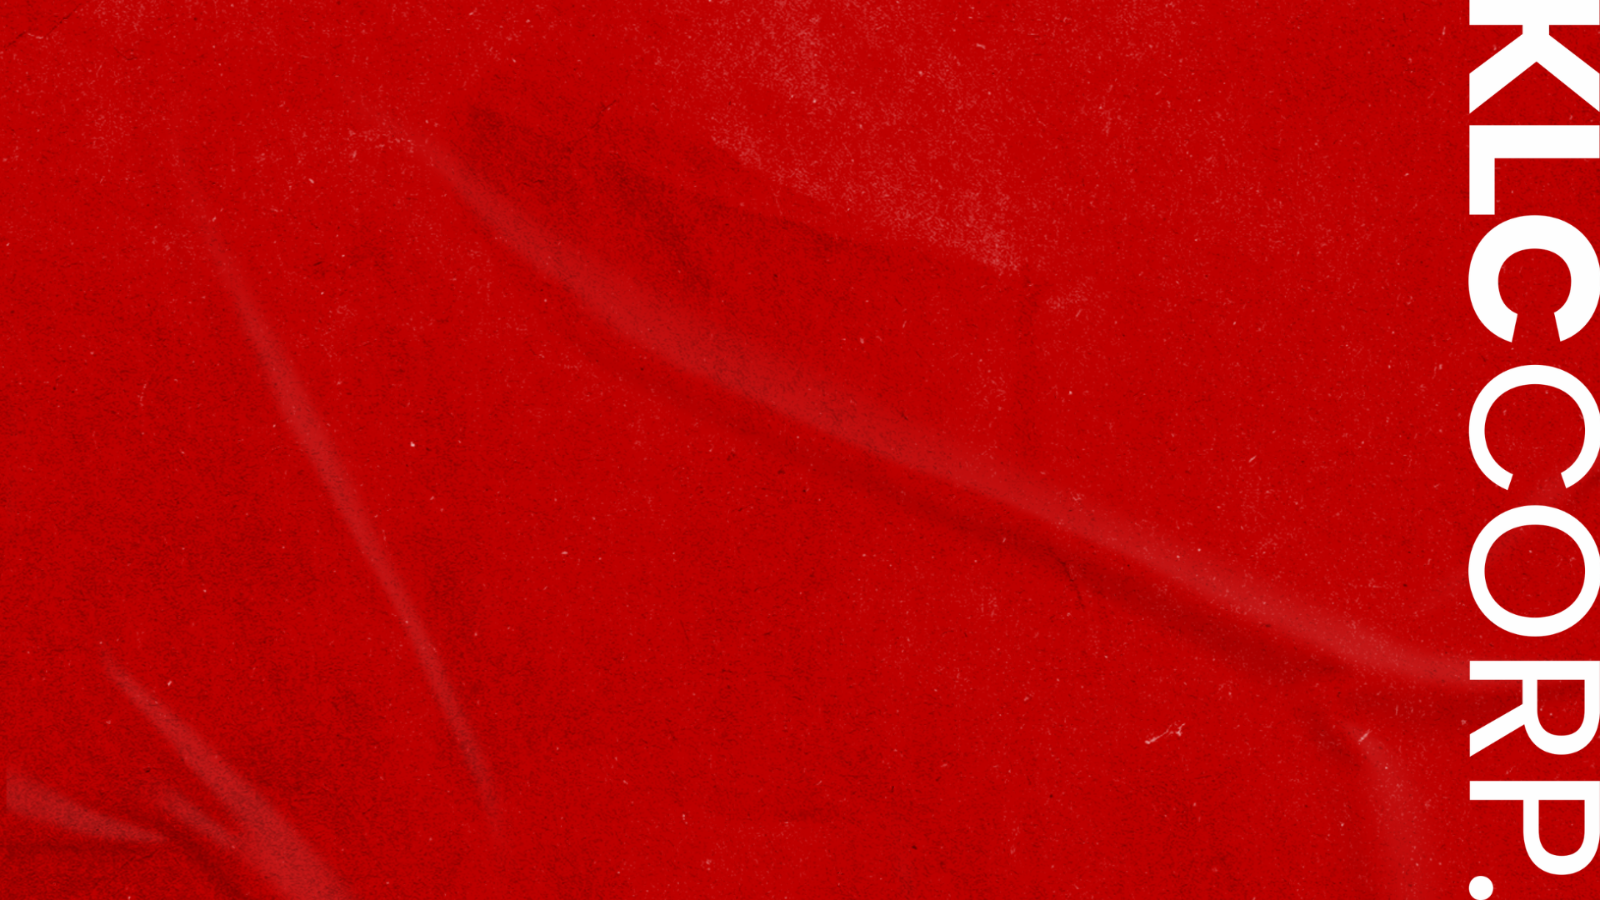
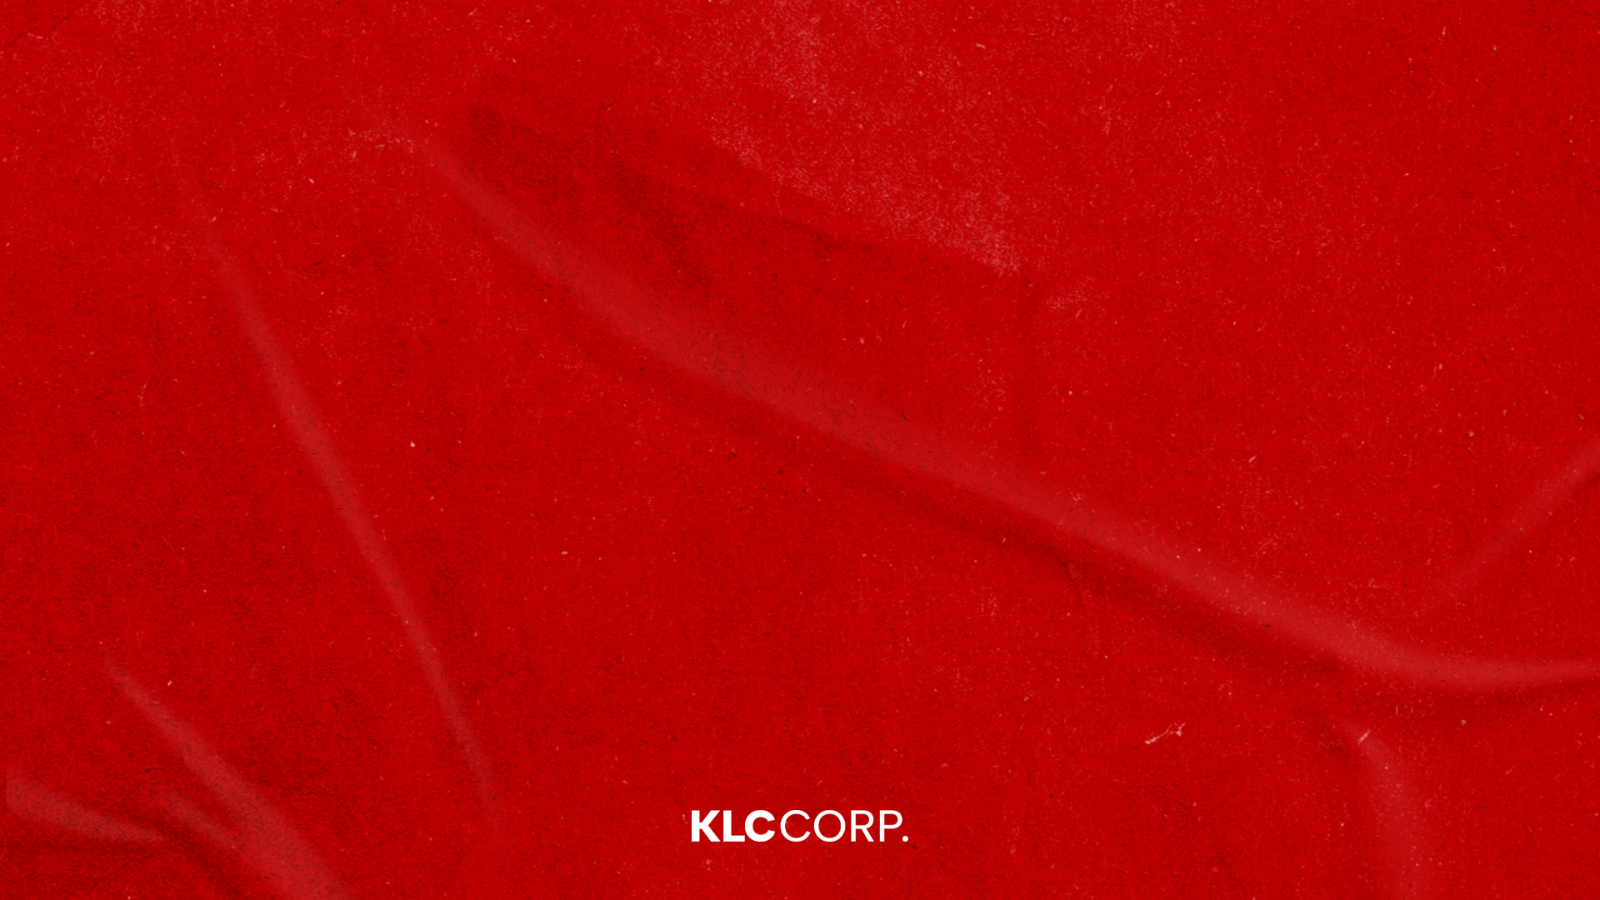
Use the requested texture variant and anchor it to the bottom
I picked the wrong one of the two paper-texture files: the choice was the
variant with KLC CORP. centred along the bottom, not the one running it up the
right edge. Rebuilt from the correct source.

The mark sits at the foot of that image, and bg-center trims top and bottom
equally, so it was cut off by the viewport edge. Anchoring the background to
the bottom keeps it whole; only texture is lost off the top, which costs
nothing.

diff --git a/absensi-app/frontend/js/hr.js b/absensi-app/frontend/js/hr.js
@@ -14,7 +14,7 @@ const HrState = {
 async function renderHrDashboard(account) {
   const app = document.getElementById('app');
   app.innerHTML = `
-    <div data-bg="merek" class="min-h-screen bg-klc-red bg-cover bg-center bg-fixed"
+    <div data-bg="merek" class="min-h-screen bg-klc-red bg-cover bg-bottom bg-fixed"
          style="background-image:url('img/bg-dashboard.png')">
       <header class="bg-white/90 backdrop-blur-sm border-b border-slate-200 sticky top-0 z-10">
         <div class="max-w-6xl mx-auto px-4 py-4 flex items-center justify-between flex-wrap gap-2">

diff --git a/absensi-app/frontend/js/owner.js b/absensi-app/frontend/js/owner.js
@@ -63,7 +63,7 @@ async function renderOwnerDashboard(account) {
   OwnerState.account = account;
   const app = document.getElementById('app');
   app.innerHTML = `
-    <div id="owner-shell" data-bg="merek" class="min-h-screen bg-klc-red bg-cover bg-center bg-fixed"
+    <div id="owner-shell" data-bg="merek" class="min-h-screen bg-klc-red bg-cover bg-bottom bg-fixed"
          style="background-image:url('img/bg-dashboard.png')">
       <!-- Header dibuat sedikit tembus pandang supaya latar merek di
            belakangnya ikut terlihat, tapi tetap cukup pekat agar teks
